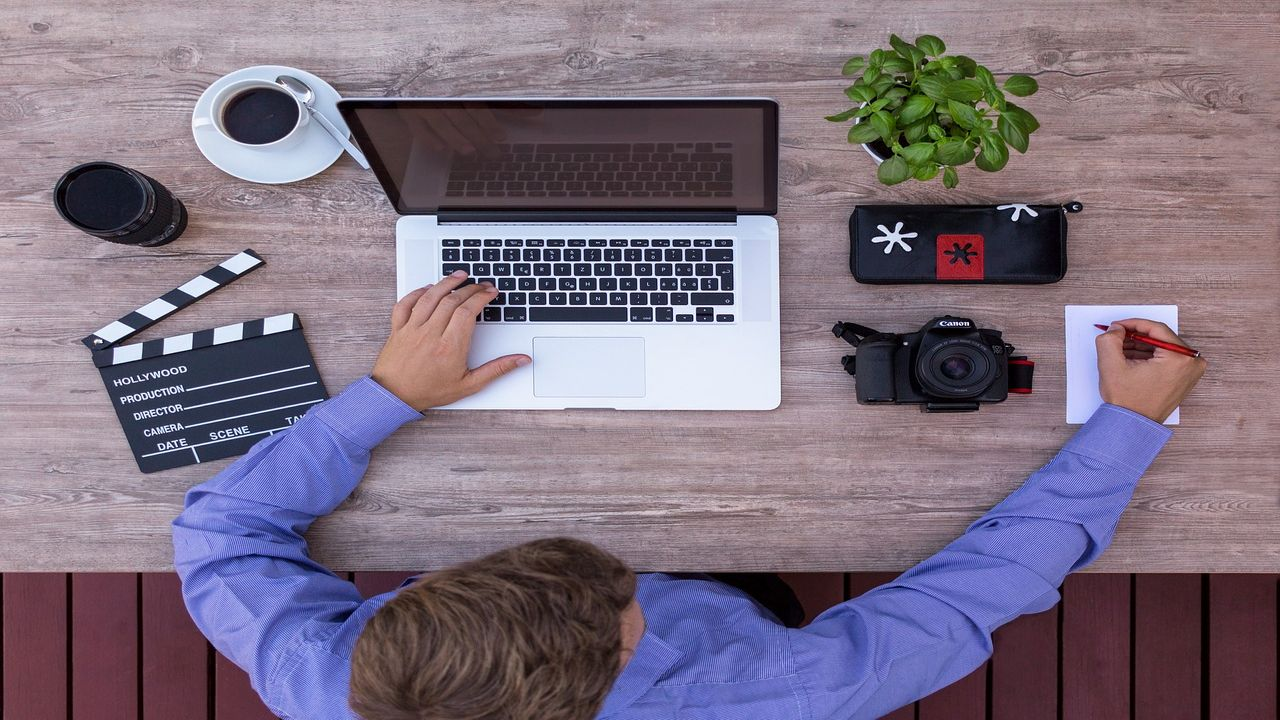
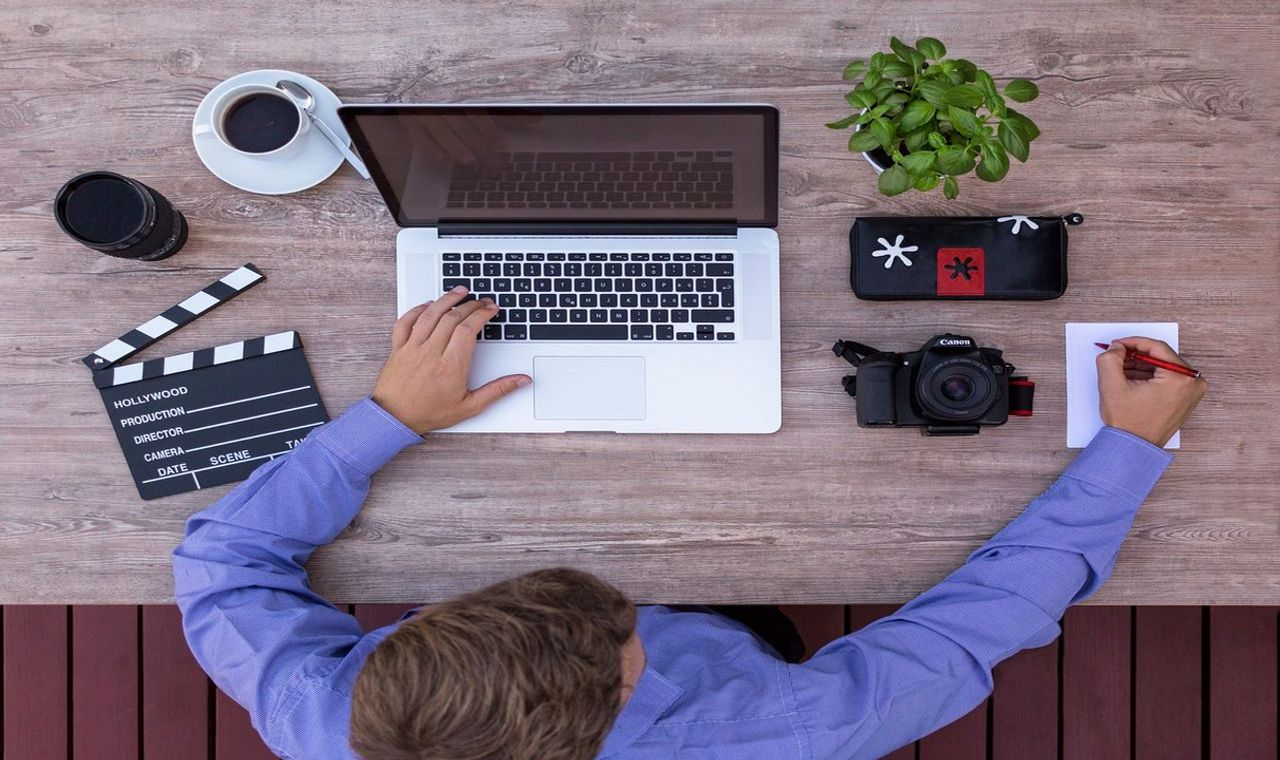
updated

diff --git a/index.html b/index.html
@@ -128,13 +128,13 @@ ul li a:hover{
   </ol>
   <div class="carousel-inner">
     <div class="carousel-item active">
-      <img class="d-block w-100"style="height:52vh" src="programmer.jpg" alt="First slide">
+      <img class="d-block w-100" src="programmer.jpg" alt="First slide">
     </div>
     <div class="carousel-item">
-      <img class="d-block w-100"style="height:52vh" src="coder.jpg" alt="Second slide">
+      <img class="d-block w-100" src="coder.jpg" alt="Second slide">
     </div>
     <div class="carousel-item">
-      <img class="d-block w-100"style="height:52vh" src="photo.jpg" alt="Third slide">
+      <img class="d-block w-100" src="photo.jpg" alt="Third slide">
     </div>
   </div>
   <a class="carousel-control-prev" href="#carouselExampleIndicators" role="button" data-slide="prev">
@@ -256,9 +256,9 @@ $(document).ready(function(){
     }
     if((position>1100)&&(position<2500)){
       $('.card1').addClass(' animate__animated animate__zoomInLeft');}
-      if((position>1400)&&(position<2500)){
+      if((position>1100)&&(position<2500)){
       $('.card2').addClass(' animate__animated animate__zoomIn');}
-      if((position>1800)&&(position<2500)){
+      if((position>1120)&&(position<2500)){
       $('.card3').addClass(' animate__animated animate__zoomInRight');
     }
     if((position>220)&&(position<2500)){
